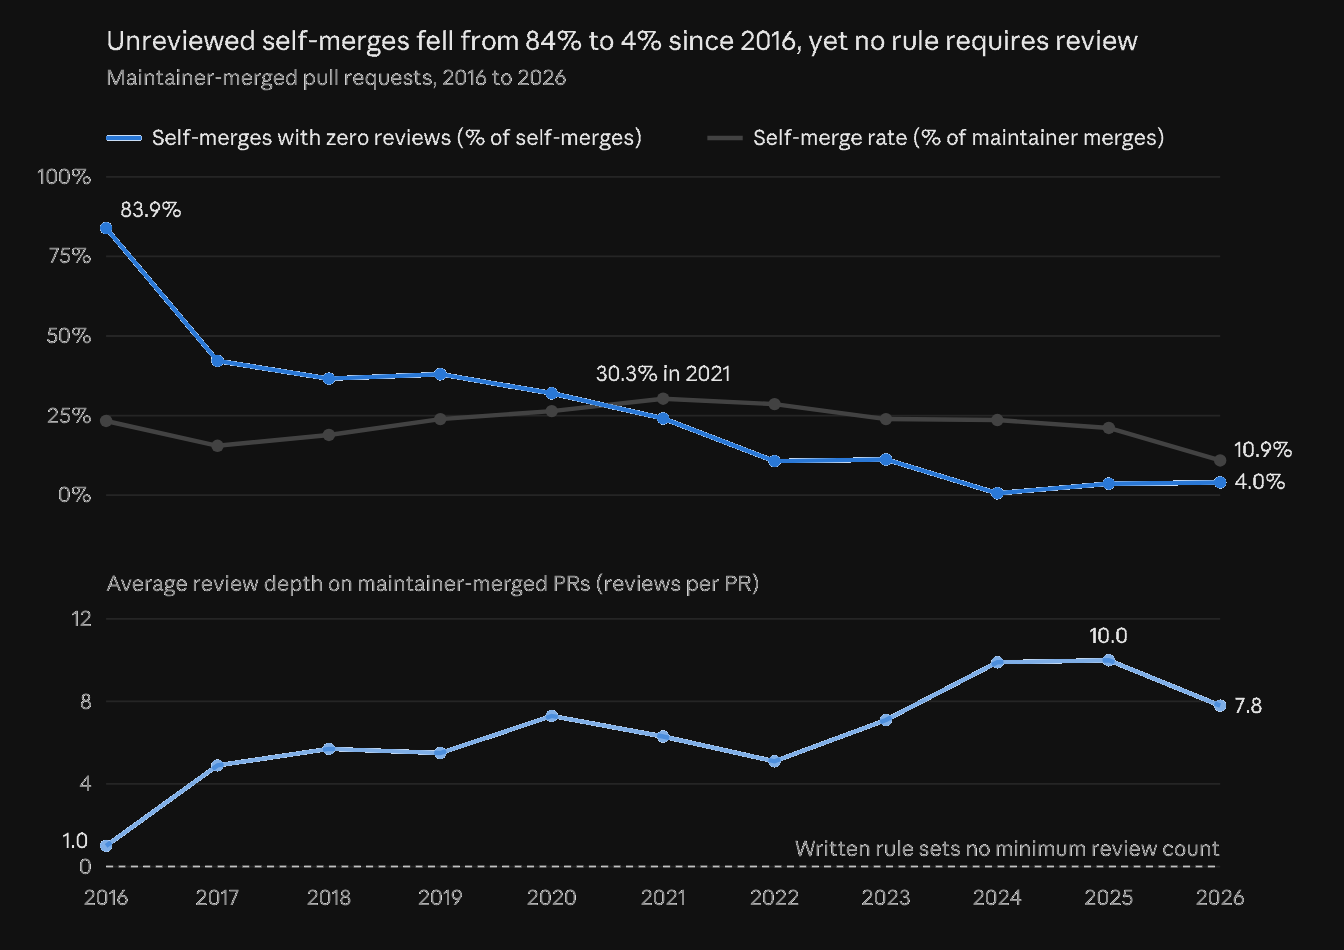
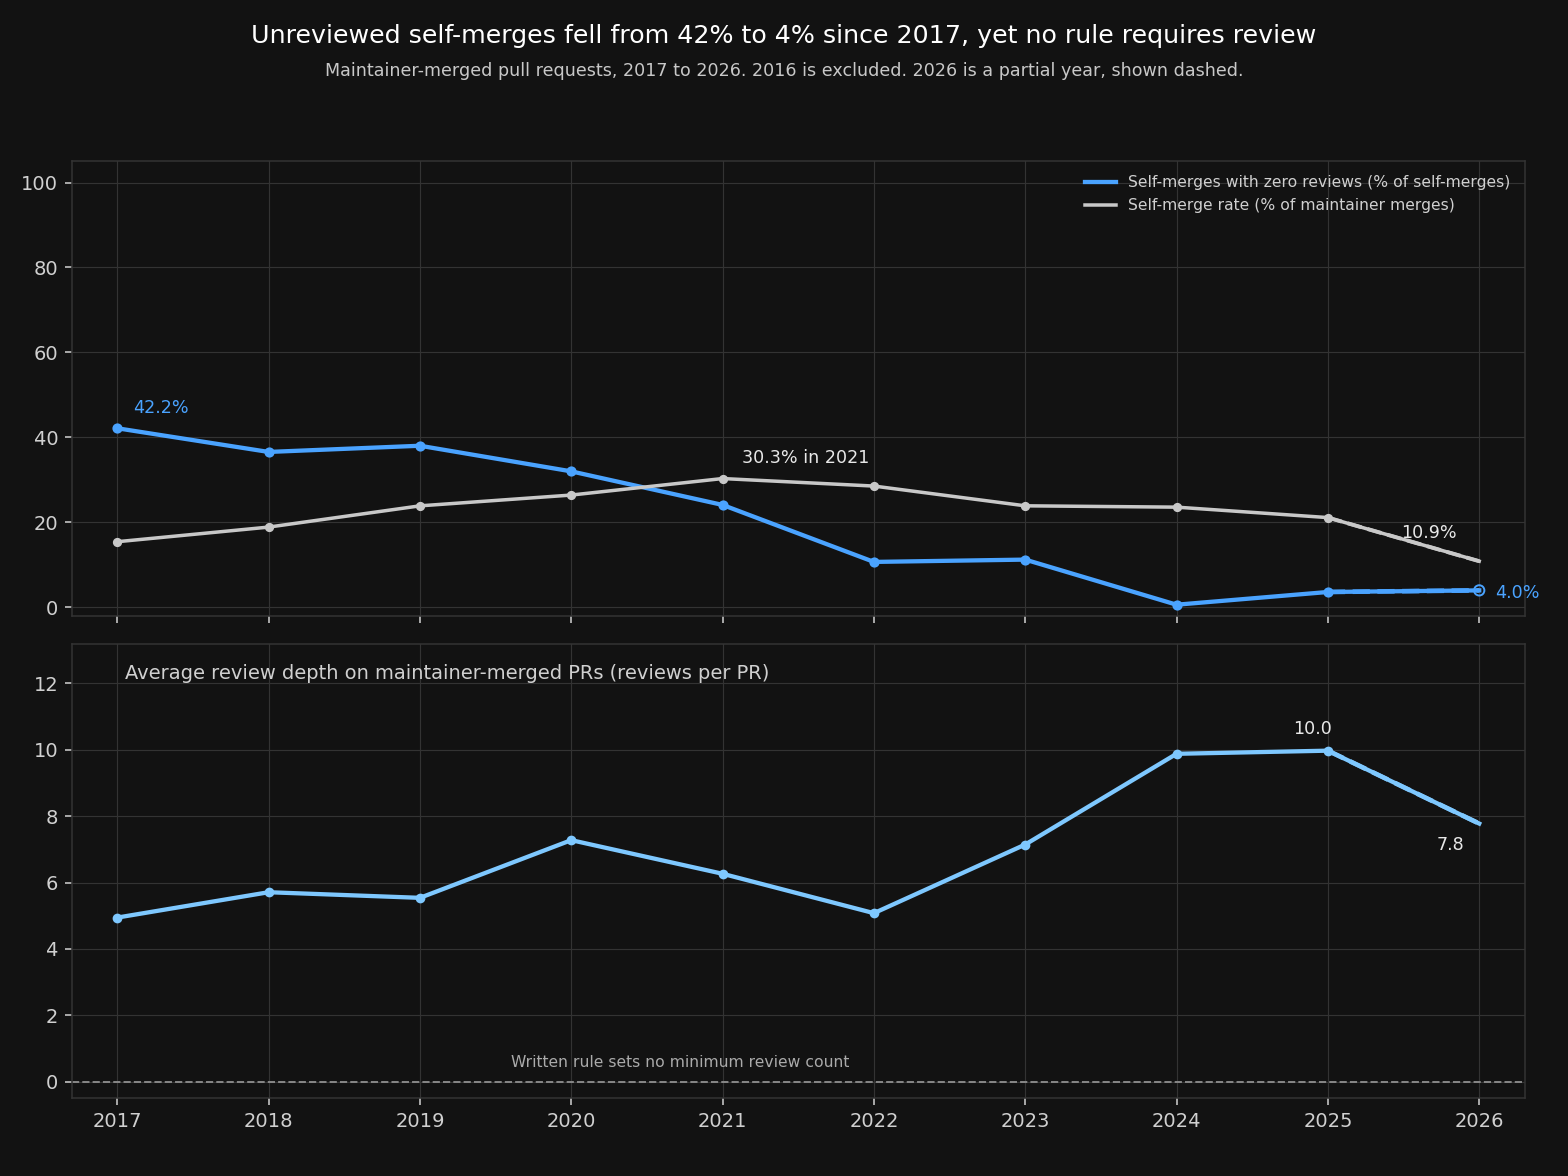
docs: start the review chart in 2017
The image still opened at 83.9 percent in 2016. The drawn series now starts at 42.2 percent in 2017, and 2026 stays a partial year.

diff --git a/whitepaper.html b/whitepaper.html
@@ -248,8 +248,8 @@
 </figure>
 <p>Zero-review self-merges fell from 42.2% in 2017 to 4.0% in 2026, a partial year. 2016 is not the baseline. It is the first year GitHub review objects exist in the dump, so that year's rate mixes a missing instrument with the later practice. Zero-review merges of other authors' pull requests fell from 32.4% in 2017 to 8.8% in 2026. The self-merge fall may reflect a maintainer norm, tooling, or how review is recorded. Which of those it is remains an open question (Bitcoin Governance Research, <code>findings/TEMPORAL_ANALYSIS_REPORT.md</code>, note dated 2026-11-11, stored series in <code>analysis/findings/data/temporal_analysis.json</code> at commit <code>1225a188</code>, repository <code>c526cd03</code>). The self-merge series measures maintainers reviewing work that already reached review. It does not describe the filter before review. Crawford and Ostrom (1995) treat a statement with a sanction as a rule and a statement without one as a norm. Writing is not the line. Acheson (1988) documented unwritten territorial rules whose sanction was cutting traps. Core's review practice states no sanction, so this paper classes it as a norm. The norm held among insiders. The case for writing a rule down is legibility and accountability to people outside the group, who cannot watch the norm. Commons has written rules, and enforcement of those rules is not on.</p>
 <figure class="wp-chart wp-chart-wide">
-<img class="chart-dark" src="/assets/images/review-practice-dark.png" alt="Review is a custom" style="width: 100%; display: block; margin: 0 auto;">
-<figcaption>Figure: Maintainer-merged pull requests. The computed table still starts in 2016. The baseline for citation is 2017, because 2016 is the first year review objects exist in the dump. The dashed line is the written rule: no minimum review count. Source: Bitcoin Governance Research, <code>findings/TEMPORAL_ANALYSIS_REPORT.md</code>.</figcaption>
+<img class="chart-dark" src="/assets/images/review-practice-dark.png" alt="Unreviewed self-merges fell from 42.2 percent in 2017 to 4.0 percent in 2026. The chart starts in 2017." style="width: 100%; display: block; margin: 0 auto;">
+<figcaption>Figure: Maintainer-merged pull requests, 2017 to 2026. The chart starts in 2017 because 2016 is the first year review objects exist in the dump. Zero-review self-merges start at 42.2 percent. The lower dashed line is the written rule, no minimum review count. 2026 is a partial year. Source: Bitcoin Governance Research, <code>findings/TEMPORAL_ANALYSIS_REPORT.md</code>.</figcaption>
 </figure>
 <p>Scored as a form of governance, the figure below is the older estimate from <em>Bitcoin Has Governance</em>. Those six measures mix a hazard, a safeguard, and a cost in one number. Capture resistance counts how few people can change a rule. Credible commitment, as that article defines it, counts veto players. A reputation cost can commit people who will face each other again, and it does not need a veto (Williamson, 1985). Exit cost and decision cost are costs. Legibility is whether an outsider can see who decided and under which rule. The article's claim that the whole shortfall is legibility and credible commitment does not survive once reputation counts, and it does not survive once commitment is split. The review norm may bind insiders, and that reading is open. It does not bind the process toward outsiders. Since 2022, first pull requests merge at 16.1 percent, outsider pull requests of 2,000 or more lines that are closed land at 5.0 percent, and the identity gap after author-prep matching is 20.5 points. Those figures were checked against <code>findings/data/maintainer_premium.json</code> generated 2026-09-10, commit <code>1225a188</code>, still present at repository <code>c526cd03</code> (<code>findings/MAINTAINER_PREMIUM_REPORT.md</code>). The newcomer-by-year interaction is minus 3.7 points per year. Silence rose while the queue per reviewer fell, so capacity starvation is not supported. The in-group odds ratio is about 1.97 after year controls (<code>findings/NEWCOMER_BAR.md</code>). No peer response covers 11.5% of out-group pull requests and 2.6% of in-group pull requests (<code>findings/INGROUP_REVIEW_TREATMENT.md</code>). Patch content does not close the first-year gap. Review reception, the community's own response, does (<code>findings/FIRST_YEAR_TRAJECTORY.md</code>). The same newcomer pattern is classed AMBIENT. It also appears in secp256k1, BDK, LND, and Eclair (<code>findings/NEWCOMER_DIVERGENCE.md</code>). Outsiders with five or more prior merges land at 68.6% since 2022, and the maintainer odds ratio falls from 3.63 to 1.36 once prior merges are controlled (<code>findings/MAINTAINER_PREMIUM_REPORT.md</code>). The gate the record supports is at entry and on large novel work. The counter-evidence travels with those figures. Outsiders with five or more prior merges land at 68.6 percent since 2022, and the maintainer odds ratio falls from 3.63 to 1.36 once prior merges are controlled. On activation, Commons adds a written rule with a mechanical sanction. That sanction binds insiders at least as hard as a norm that states none. Core's insider score stays open until the review-series question is settled. Review labor falls where a change is checked against a spec section, and it falls for both projects when AI drafts the reading. The 180-day and 365-day periods are fixed clocks. AI does not shorten them. A signed refusal is a political stall. AI does not remove it. The table separates the columns and does not add them into a total. The numbers are judgments with low confidence. They are not a measurement. Enforcement is not on today. The Commons row is a projection of the design once activation is complete, not a live score.</p>
 <figure class="wp-chart wp-chart-wide">
